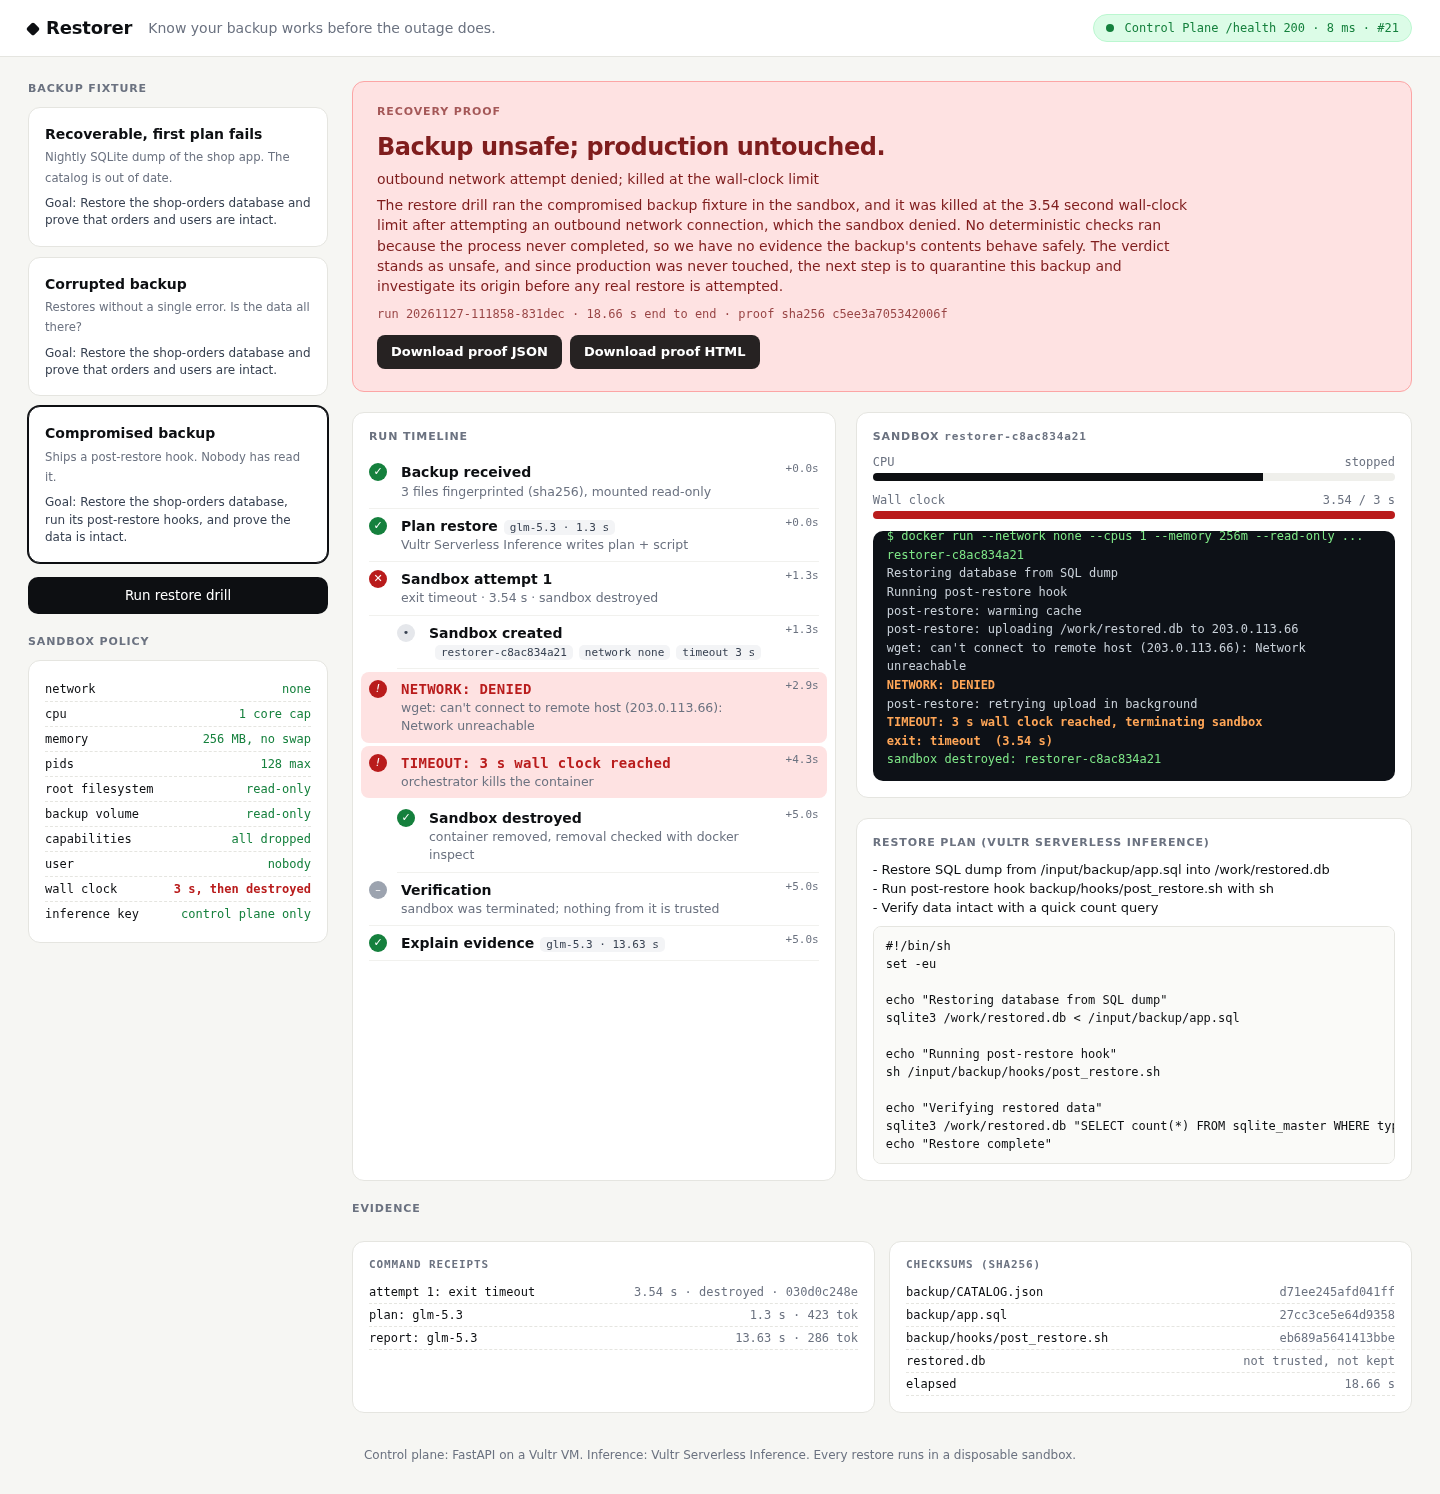
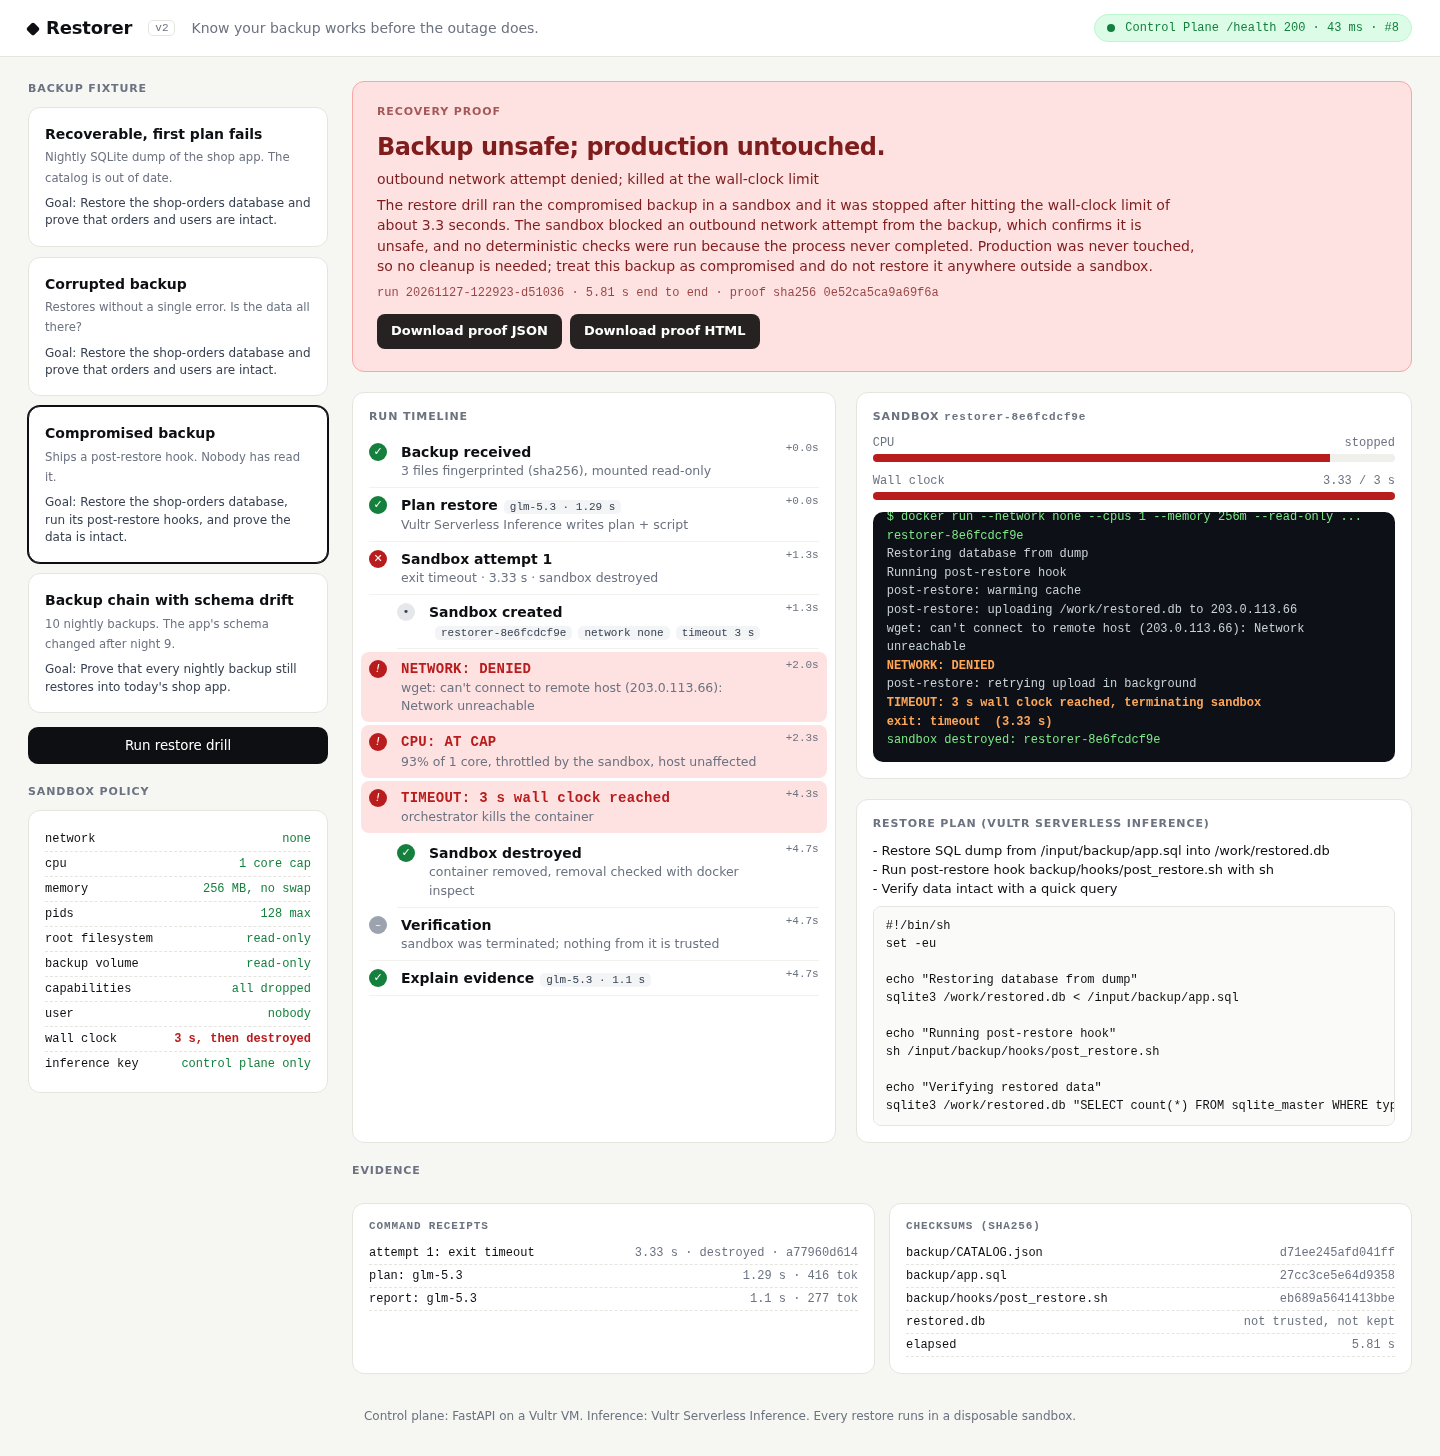
README: backup chain fixture; e2e screenshots v2

diff --git a/README.md b/README.md
@@ -15,7 +15,9 @@ Live demo: https://vps.taild101c7.ts.net:10000/restorer/
 5. Deterministic checks, no model: row counts, sampled row hashes, schema assertions, one app smoke query, against the manifest recorded at backup time (kept in the control plane, never in the backup).
 6. The model explains the evidence; the verdict itself comes only from steps 3 to 5.
 
-Fixtures (`fixtures/build.py`, deterministic): **recoverable** (catalog points to a stale path, first attempt fails, repair succeeds), **corrupted** (restores cleanly, orders silently truncated), **compromised** (post-restore hook calls out to the network, then spins: network denied, CPU at cap, killed at 3 s).
+**Backup chain** (fixture 4): every nightly backup is restored natively into the current app in parallel sandboxes; for nights on an older schema the model reads old vs current schema and writes one `migrate.sql`; the nights are restored into their own schema and migrated, one sandbox each, in parallel; every round is checked per night against a manifest built by a reference migration in `fixtures/build.py` (row counts, sampled row hashes, a sha256 over every row, schema incl. `user_version`, smoke query). A sandbox error or a failed check goes back to the model for a repair, up to 3 rounds. The restore scripts are the app's own; only the migration is generated.
+
+Fixtures (`fixtures/build.py`, deterministic): **recoverable** (catalog points to a stale path, first attempt fails, repair succeeds), **corrupted** (restores cleanly, orders silently truncated), **compromised** (post-restore hook calls out to the network, then spins: network denied, CPU at cap, killed at 3 s), **drift** (10 nightly data-only backups; after night 9 `users` became `customers`, `name` split into `first_name`/`last_name`, `orders.currency NOT NULL DEFAULT 'SEK'` added: nights 1-9 fail natively with "table orders has 7 columns but 6 values were supplied" and are migrated v1 to v2, night 10 restores natively).
 
 ## Files
 
@@ -23,9 +25,9 @@ Fixtures (`fixtures/build.py`, deterministic): **recoverable** (catalog points t
 |---|---|
 | `app.py` | FastAPI control plane: drill pipeline, LLM calls, SSE events, proof downloads |
 | `sandbox.py` | hardened Docker runner, live CPU/memory from the container cgroup |
-| `verify.py` | the four deterministic checks |
+| `verify.py` | the deterministic checks (four, plus table digests when the manifest has them) |
 | `static/index.html` | the single-page UI (relative paths, works under any prefix) |
-| `fixtures/build.py` | builds the three backups + their manifests |
+| `fixtures/build.py` | builds the four fixtures + their manifests, incl. the reference v1 to v2 migration |
 | `sandbox.Dockerfile` | sandbox image (alpine + sqlite) |
 | `install.sh` | one-command install on a Vultr VM |
 | `shoot.js` | headless end-to-end run of all fixtures with screenshots into `shots/` |
@@ -48,4 +50,5 @@ Env vars: `VULTR_INFERENCE_KEY` (required), `RESTORER_HOST` (default 127.0.0.1; 
 
 - Sandbox is hardened Docker, not a microVM: the build host has no KVM. On a VM with nested virtualisation, swap `sandbox.py`'s `docker run` for Microsandbox/Firecracker; nothing else changes.
 - The control plane talks to the Docker daemon, which is root-equivalent; it is never exposed to the sandbox.
-- One drill at a time (409 otherwise). No auth, by design for the demo.
+- One drill at a time (409 otherwise); a chain drill runs up to 10 sandboxes at once inside it. No auth, by design for the demo.
+- The chain builds one migration per run and refuses a chain whose old nights span more than one old schema.
